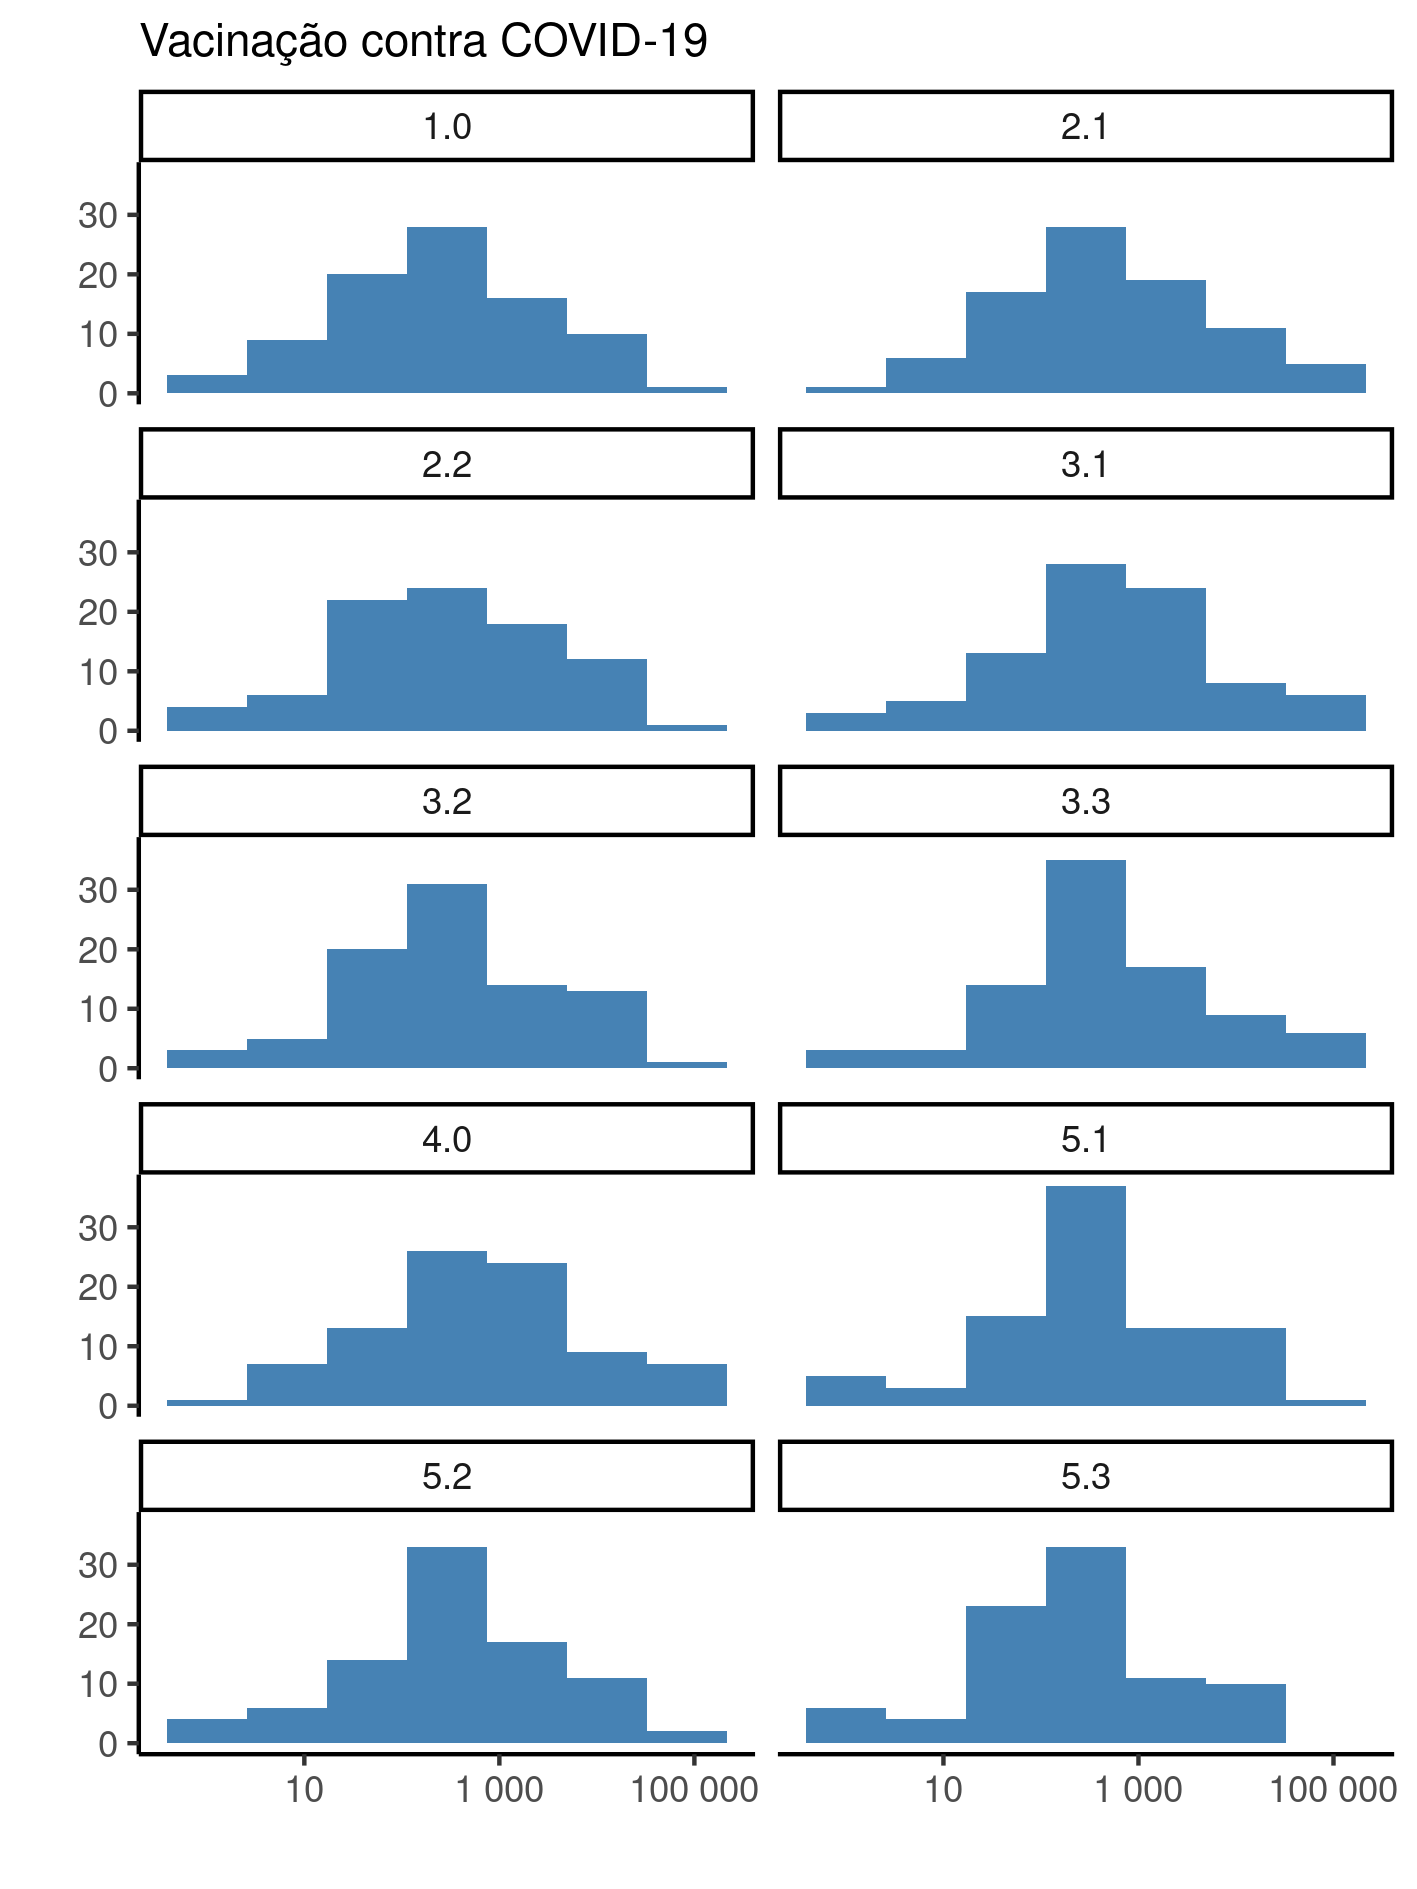
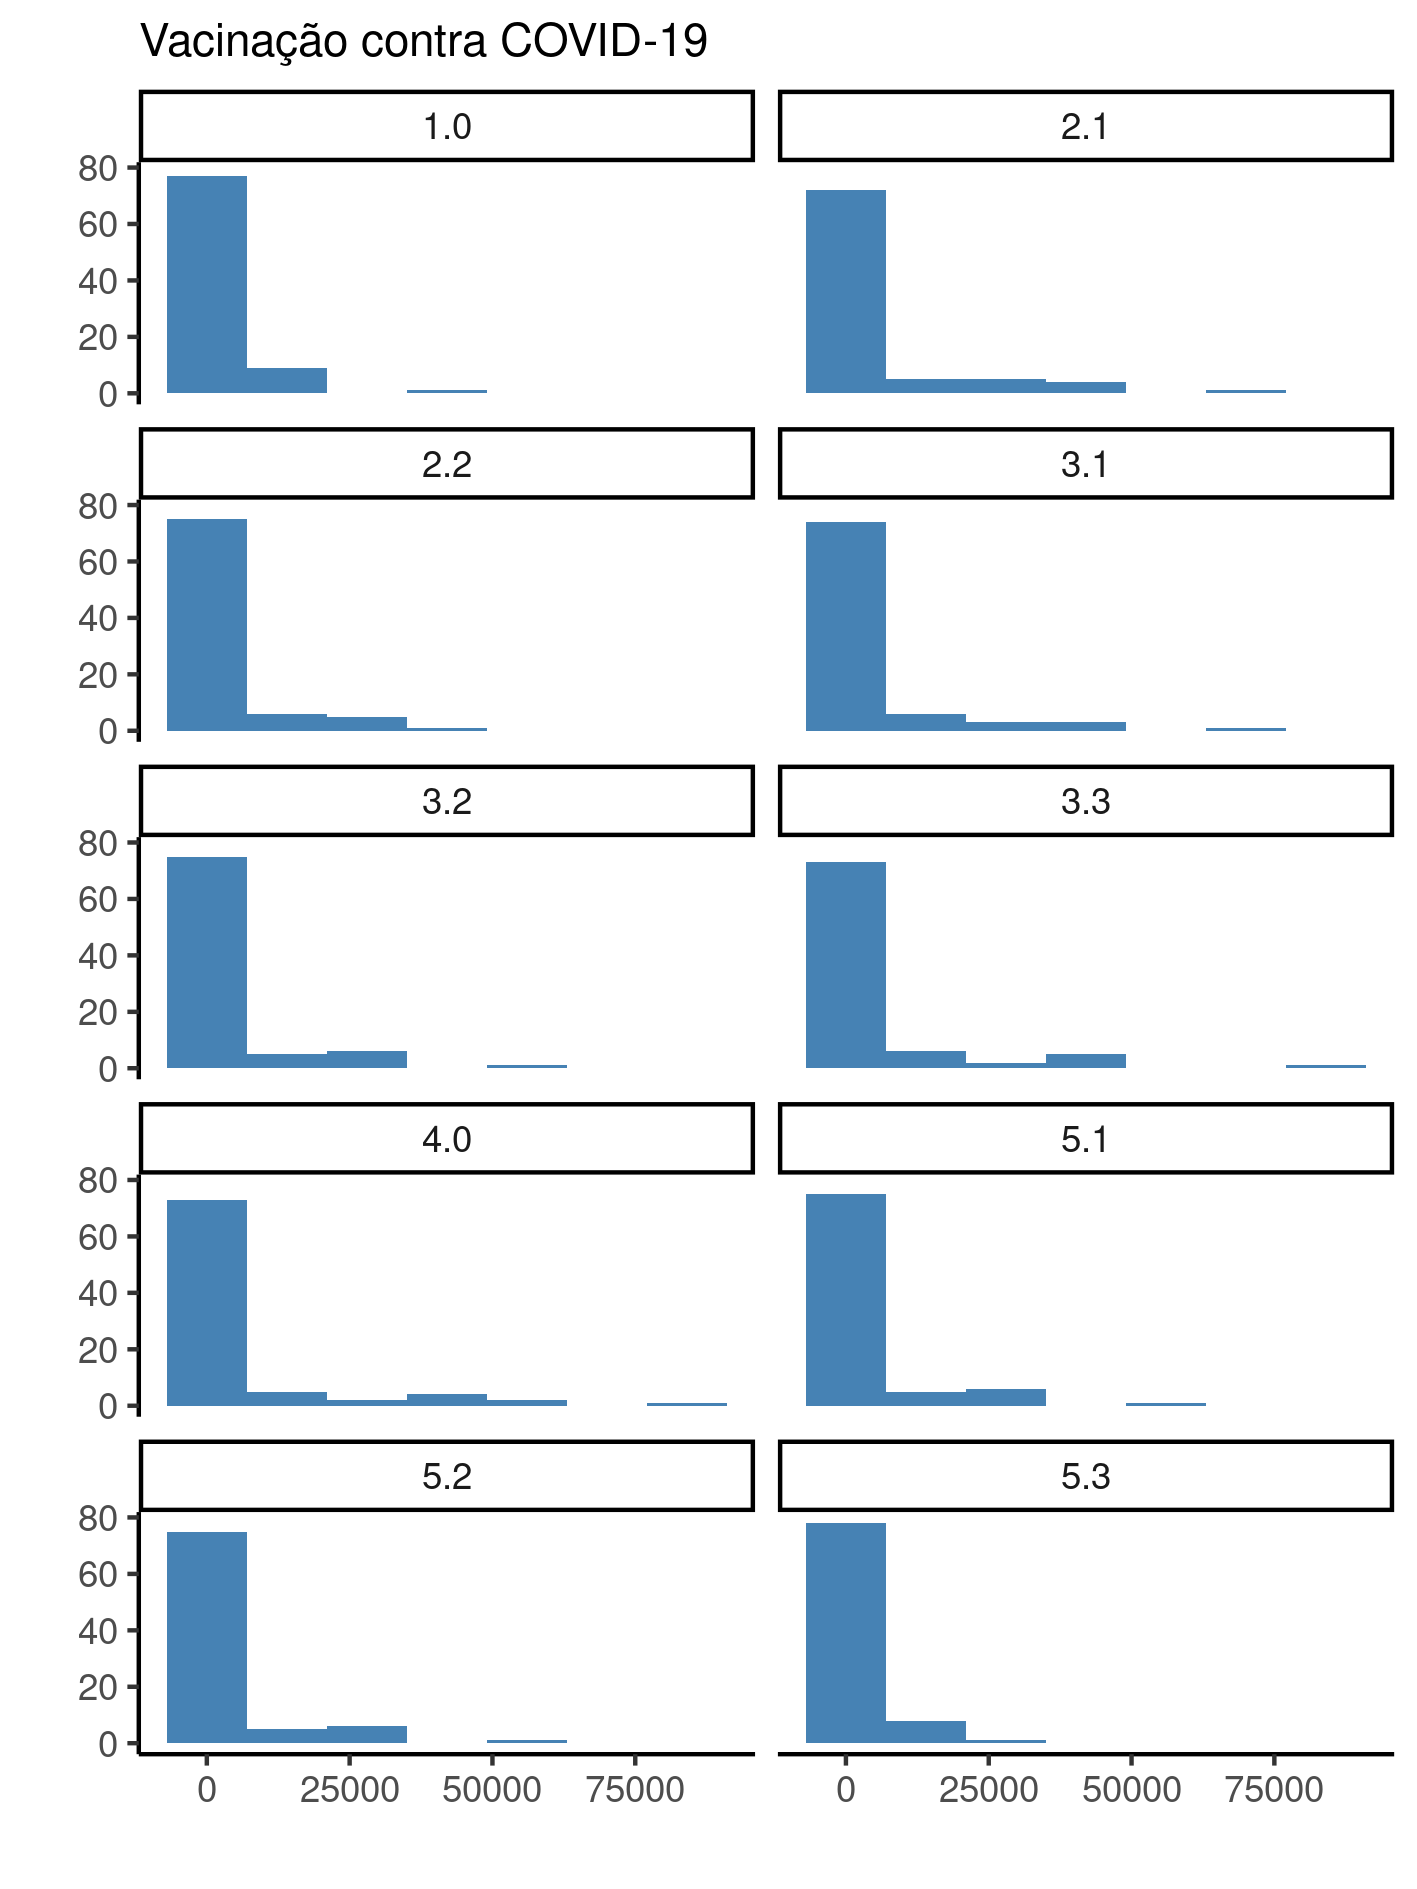
variabilidade: justificativa para escala log

diff --git a/report/SAR-2022-016-JB-v01.md b/report/SAR-2022-016-JB-v01.md
@@ -44,6 +44,7 @@ toc-title: "Sumário"
 
 - AIQ: Amplitude inter-quartil
 - AP: Área programática
+- CV: Coeficiente de variação
 - DP: desvio padrão
 - IC: intervalo de confiança
 - SRAG: Síndrome respiratória aguda grave
@@ -143,6 +144,15 @@ Table: **Tabela 2** Variáveis do estudo
 |Mediana (AIQ)                 |   58 (32, 98)   |
 |Média (Desvio Padrão)         |     71 (53)     |
 |Amplitude                     |     4, 317      |
+
+Destaca-se a grande variabilidade do esforço vacinal, onde o
+DP (10272 aplicações de vacinas)
+é consideravalmente maior que a média.
+Isso indica baixa consistência com que este esforço foi aplicado com sucesso nas populações destas regiões.
+O CV da vacinação é 249.1% enquanto que o CV das internações é 74.7%.
+As distribuições destas duas variáveis podem ser visualizadas nas figuras A1 e A2 no apêndice.
+A distribuição das vacinações mensais nas AP tem forte concentração à esquerda com longa cauda à direita.
+Para estabilizar estas distribuições, as análises das seções seguintes utilizarão escala logarítmica para interpretar esta variável.
 
 ## Associação entre internações e vacinação
 
